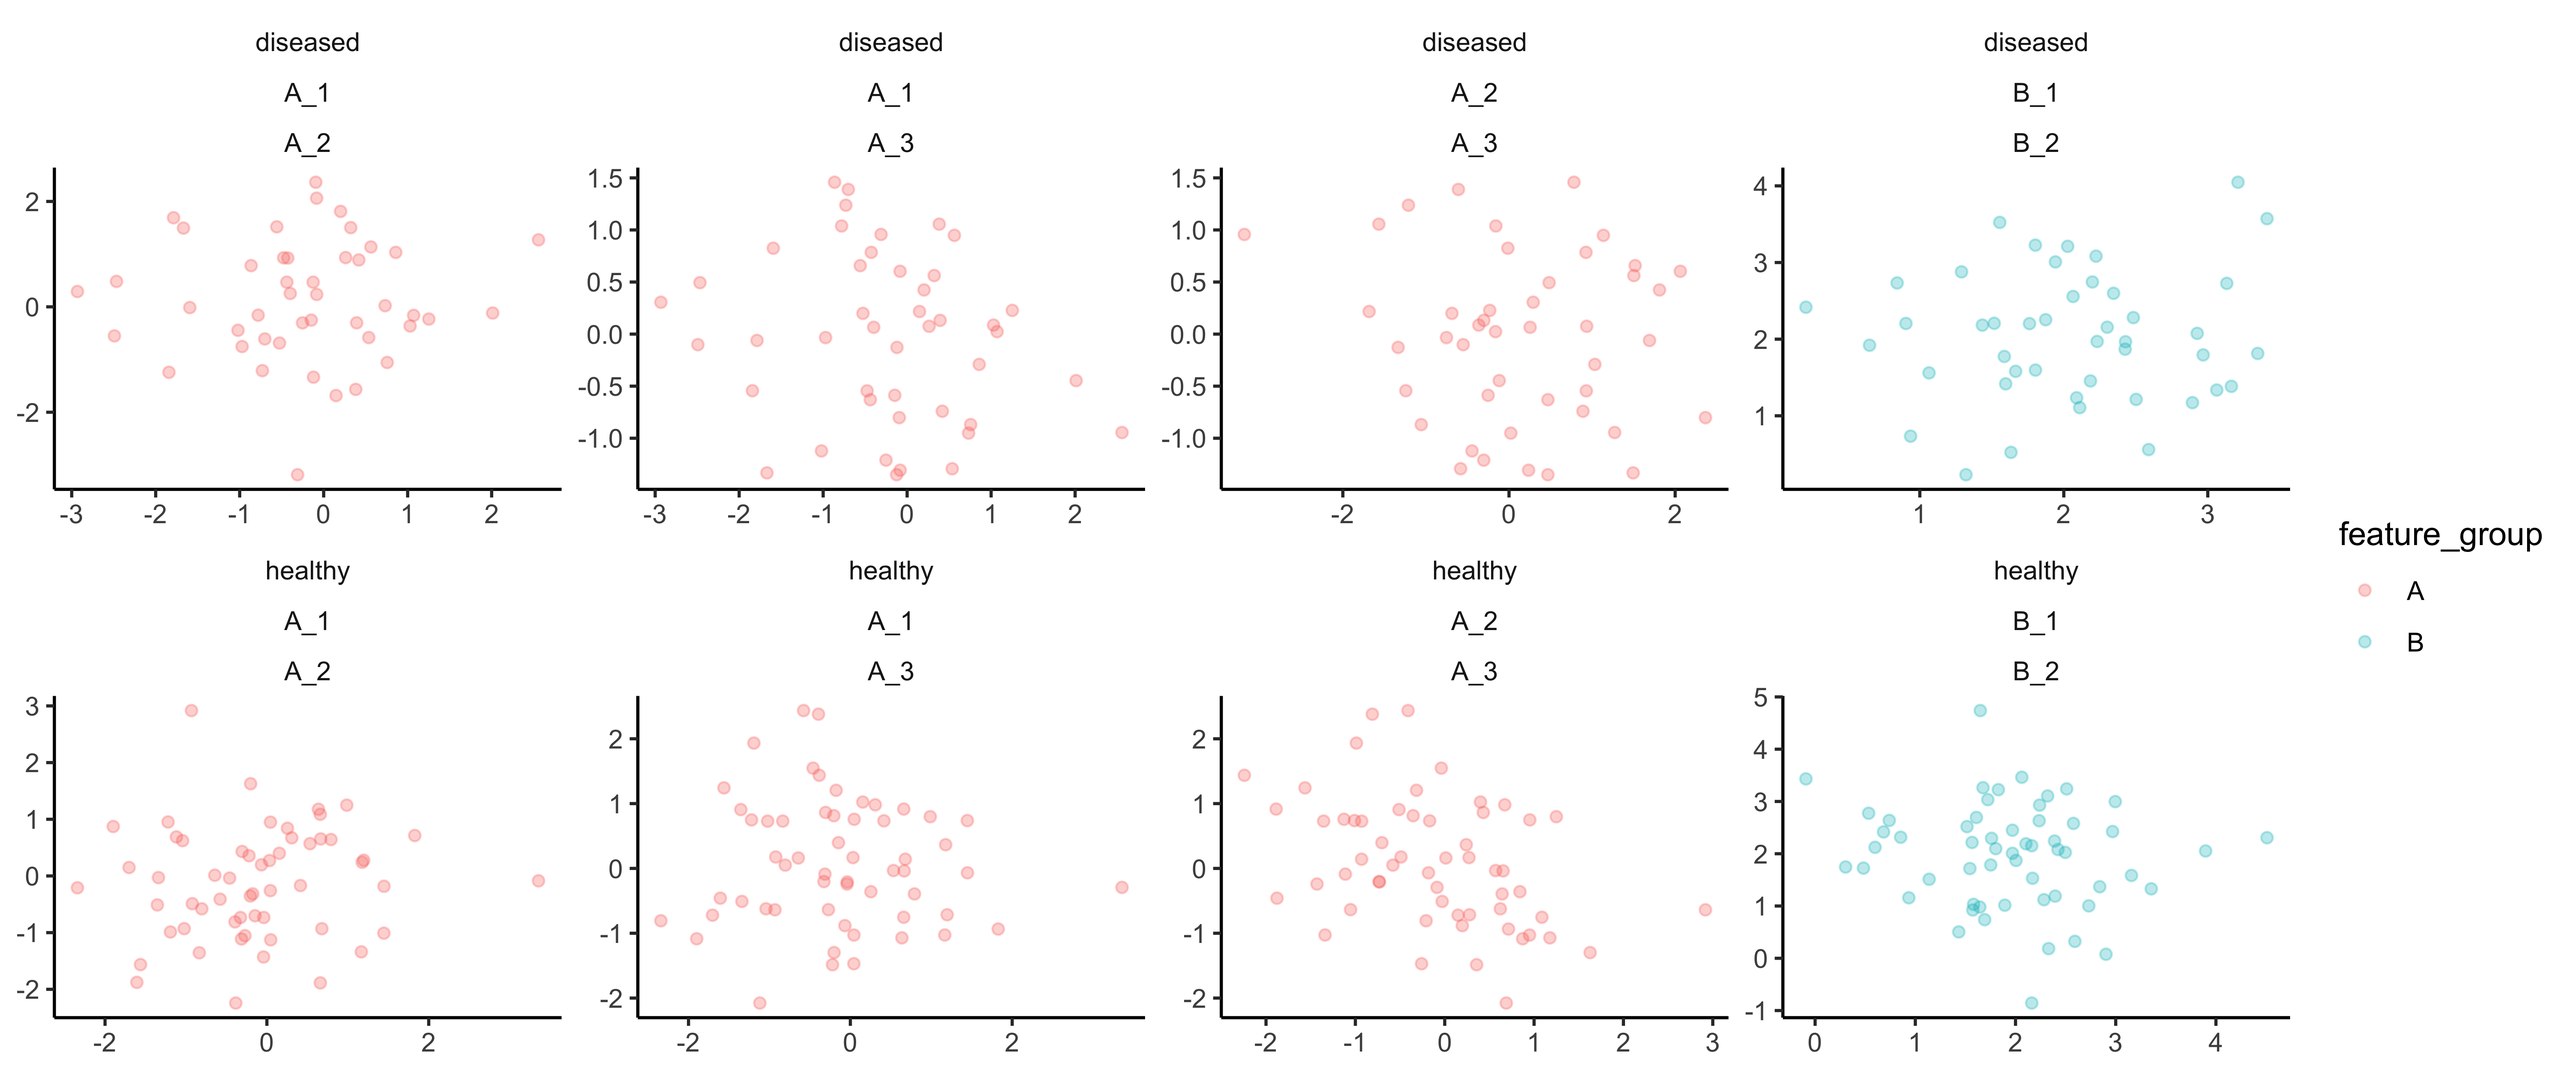
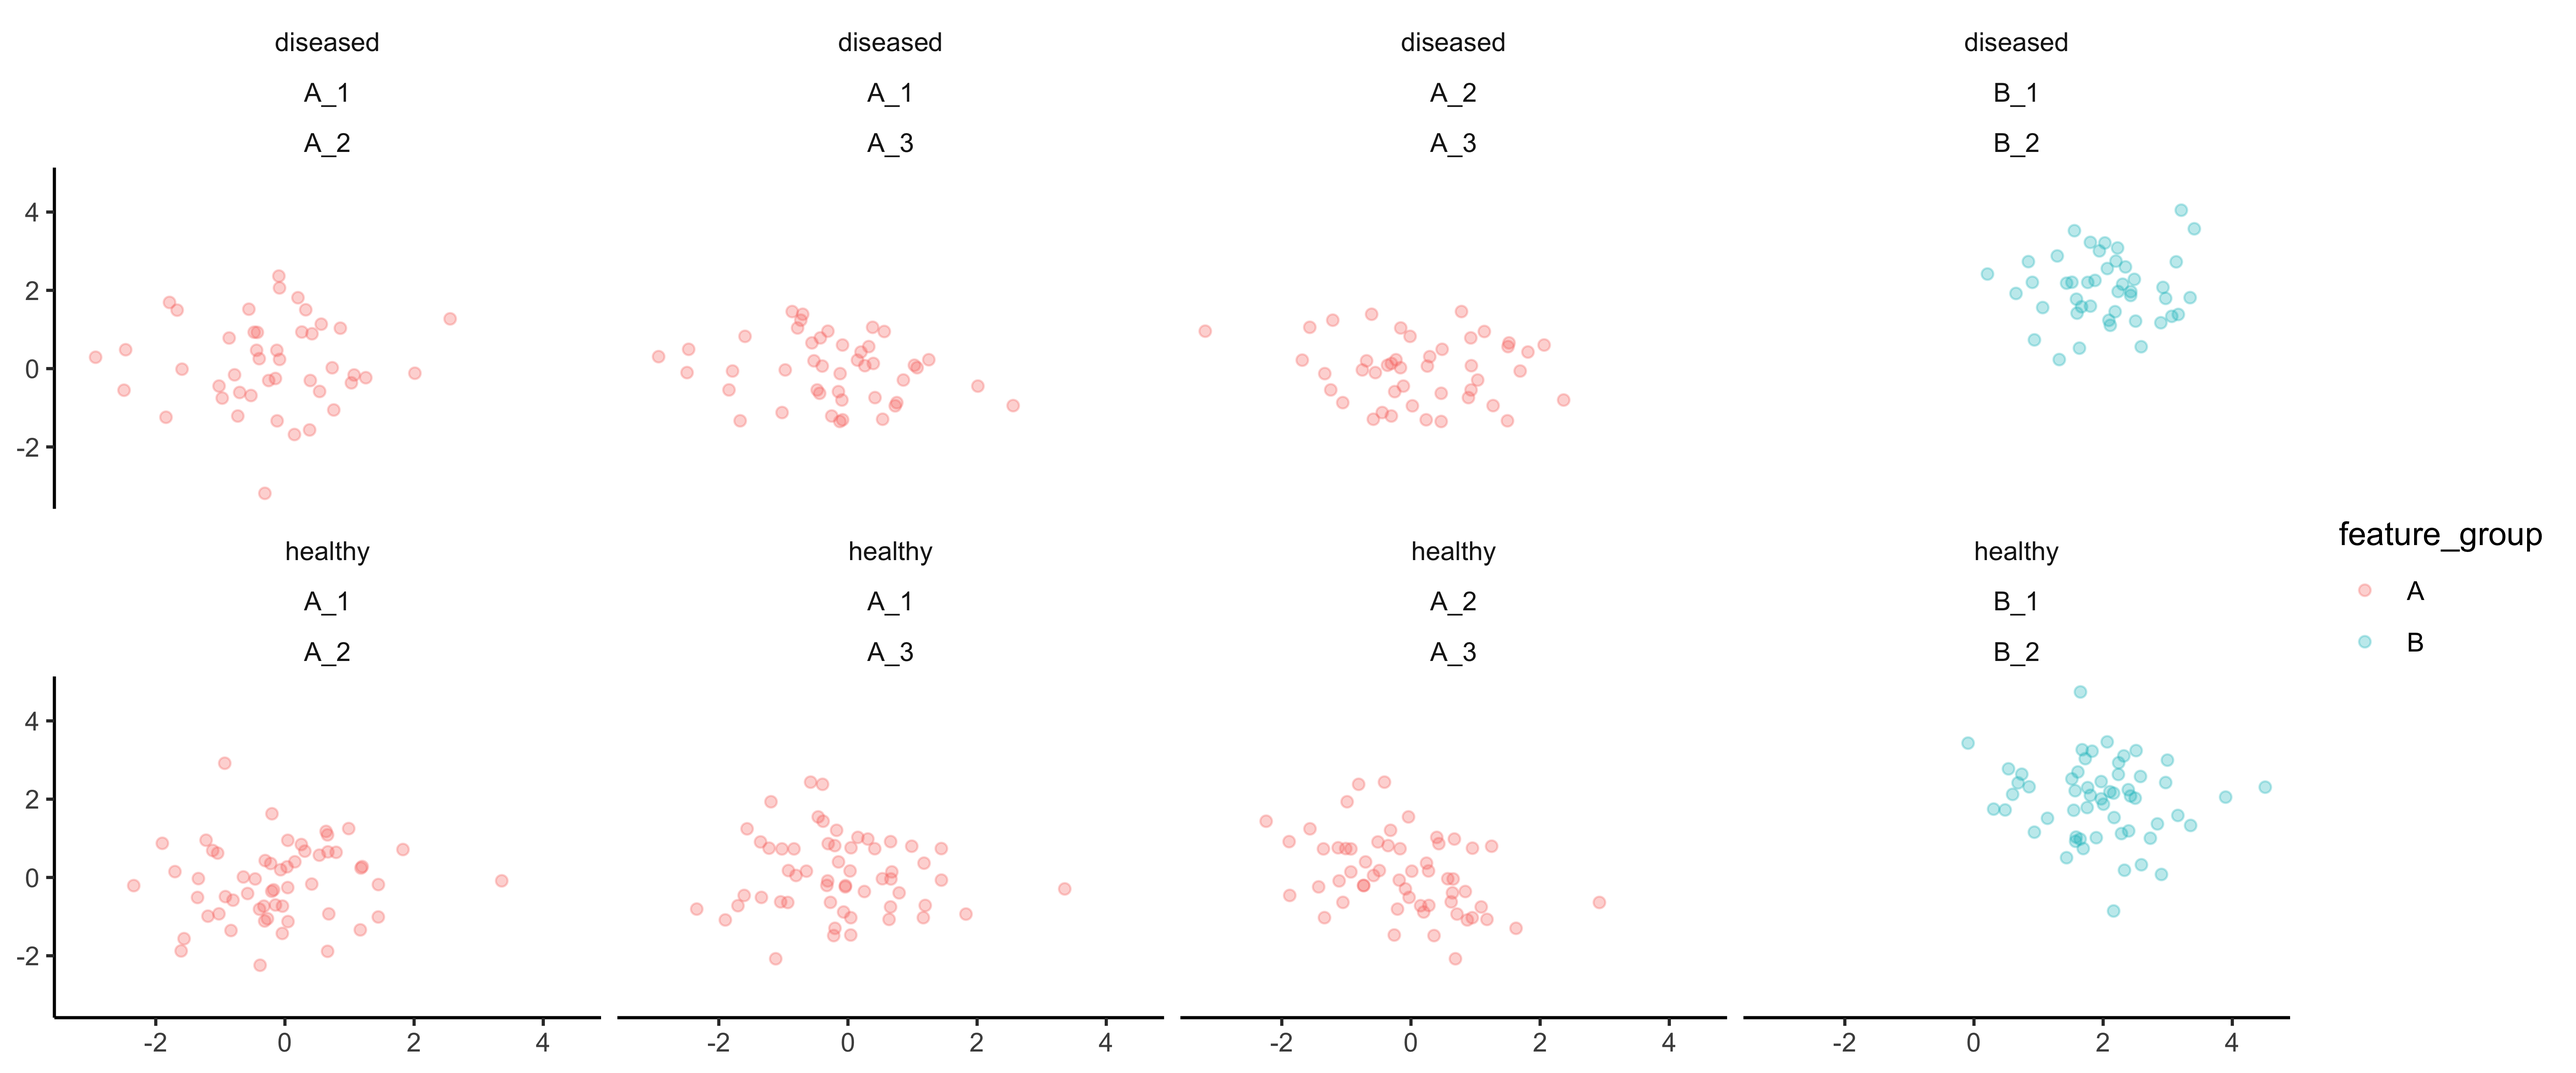
updates for consistency in code and documentation style

diff --git a/README.md b/README.md
@@ -117,7 +117,8 @@ plot_distributions(
   facet_columns = "feature",
   facet_type = "wrap",
   tier_width = 0.08,
-  type = "sina"
+  type = "sina",
+  scales = "free"
 )
 ```
 
@@ -172,6 +173,7 @@ ridge = plot_distributions(
   x = "group",
   y = "value",
   color = "group",
+  fill = "group",
   facet_columns = "feature",
   type = "ridge"
 ) + labs(title = "ridge")
